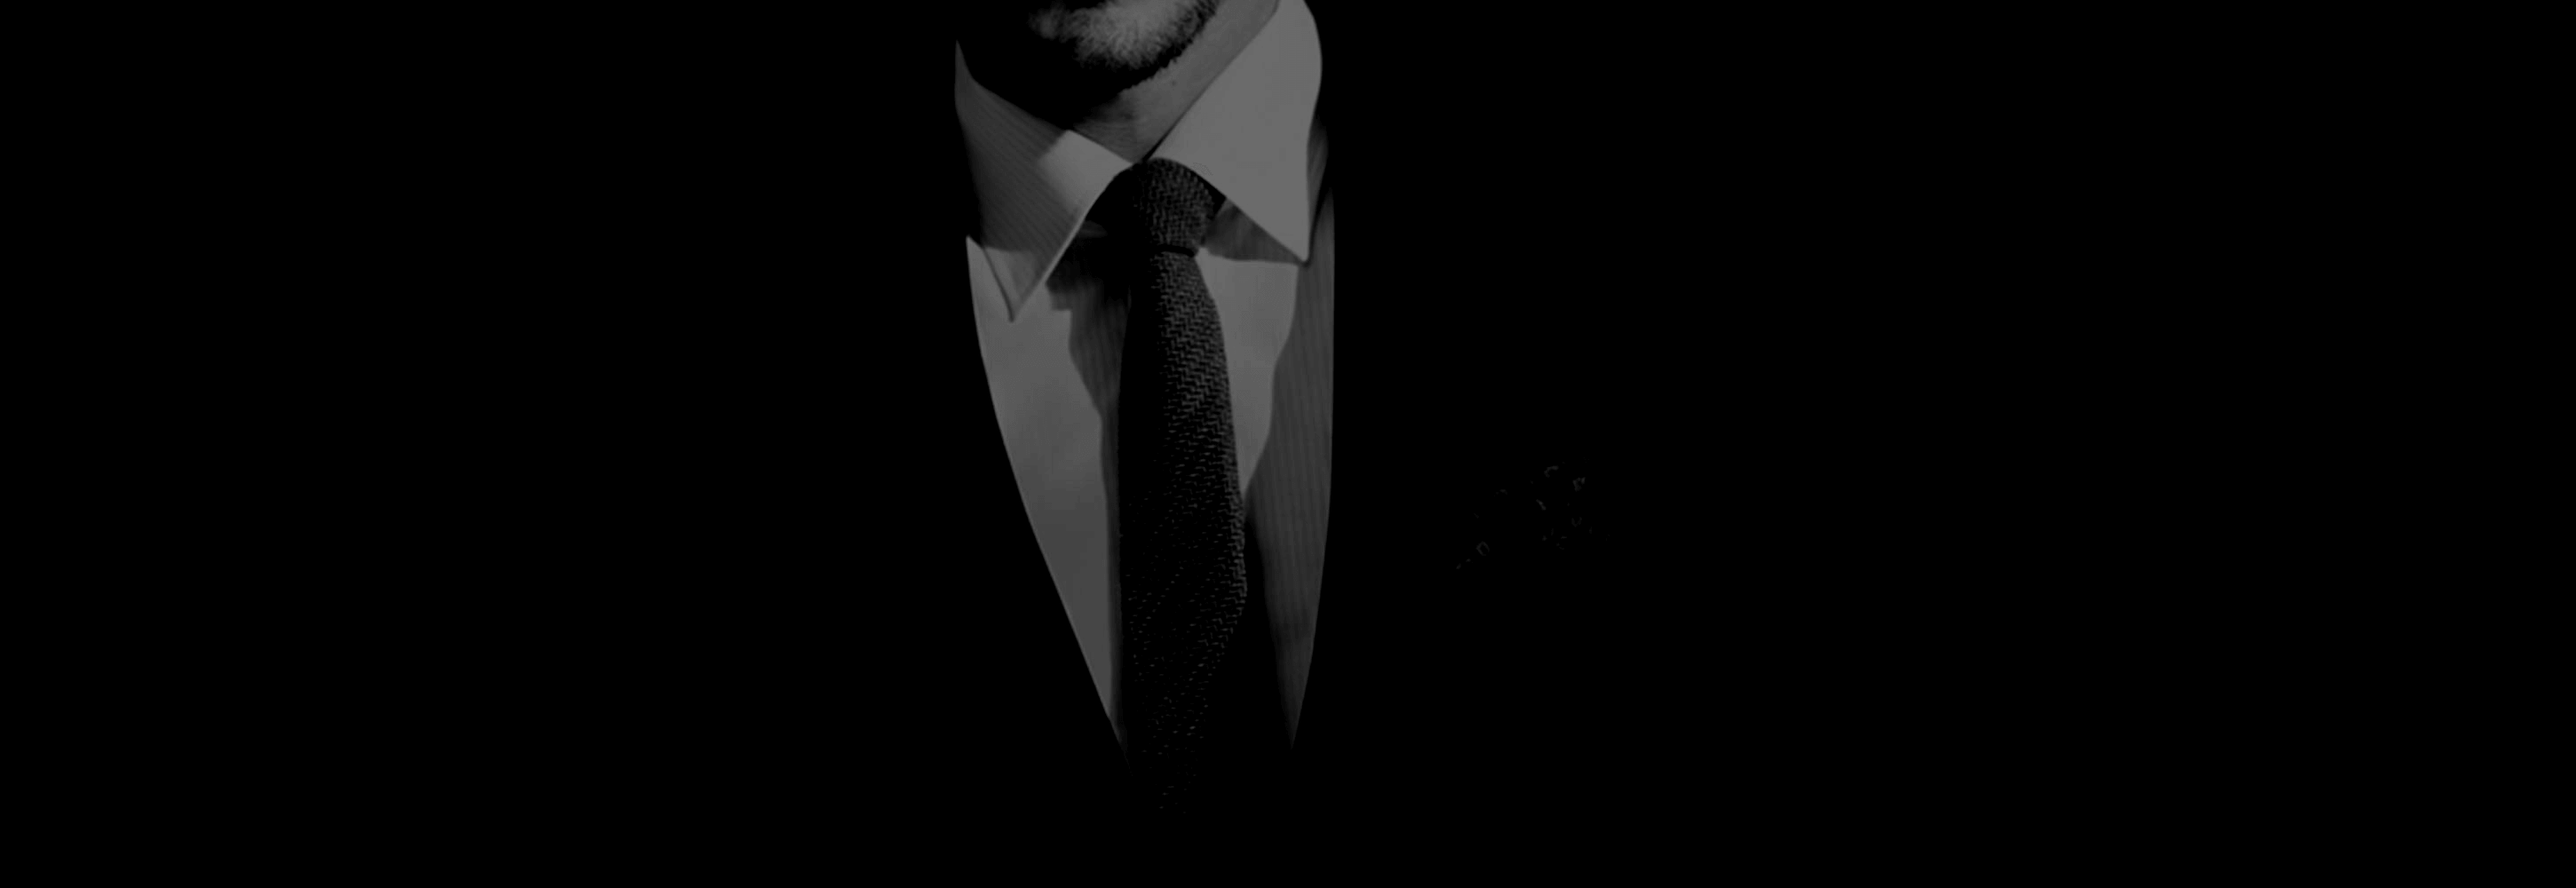
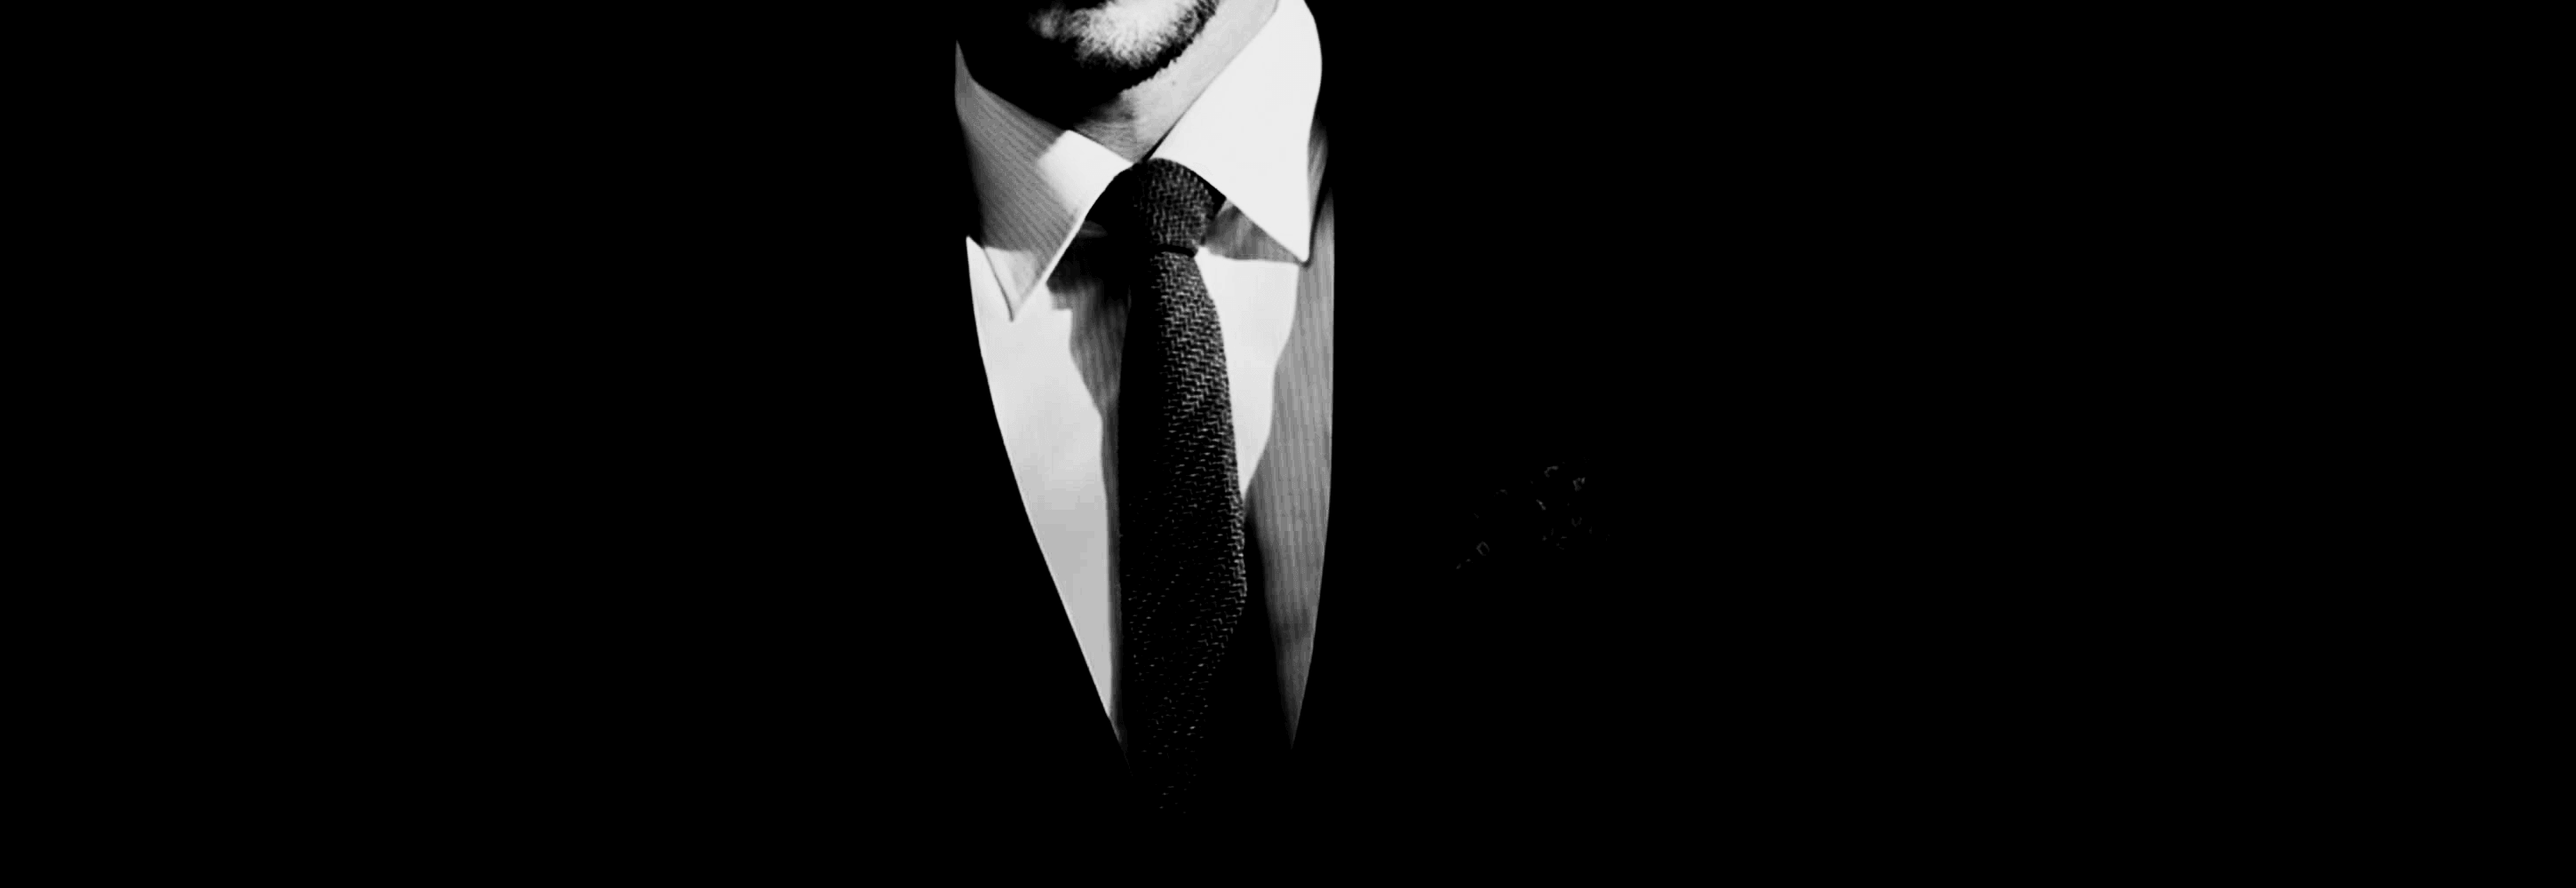
New block post (from the JavaZone talk) + fixed header images

Changed region(s): [[0.3724, 0.0, 0.5276, 0.806]]

diff --git a/_layouts/page.html b/_layouts/page.html
@@ -3,7 +3,7 @@ layout: default
 ---
 
 <!-- Page Header -->
-<header class="intro-header" style="background-image: url('{{ site.baseurl }}/{% if page.header-img %}{{ page.header-img }}{% else %}{{ site.header-img }}{% endif %}')">
+<header class="intro-header" style="background-image: linear-gradient(rgba(0, 0, 0, 0.7), rgba(0, 0, 0, 0.7)), url('{{ site.baseurl }}/{% if page.header-img %}{{ page.header-img }}{% else %}{{ site.header-img }}{% endif %}')">
     <div class="container">
         <div class="row">
             <div class="col-lg-8 col-lg-offset-2 col-md-10 col-md-offset-1">

diff --git a/_layouts/post.html b/_layouts/post.html
@@ -3,7 +3,7 @@ layout: default
 ---
 
 <!-- Post Header -->
-<header class="intro-header" style="background-image: url('{{ site.baseurl }}/{% if page.header-img %}{{ page.header-img }}{% else %}{{ site.header-img }}{% endif %}')">
+<header class="intro-header" style="background-image: linear-gradient(rgba(0, 0, 0, 0.7), rgba(0, 0, 0, 0.7)), url('{{ site.baseurl }}/{% if page.header-img %}{{ page.header-img }}{% else %}{{ site.header-img }}{% endif %}')">
     <div class="container">
         <div class="row">
             <div class="col-lg-8 col-lg-offset-2 col-md-10 col-md-offset-1">

diff --git a/_layouts/search.html b/_layouts/search.html
@@ -3,7 +3,7 @@ layout: default
 ---
 
 <!-- Page Header -->
-<header class="intro-header" style="background-image: url('{{ site.baseurl }}/{% if page.header-img %}{{ page.header-img }}{% else %}{{ site.header-img }}{% endif %}')">
+<header class="intro-header" style="background-image: linear-gradient(rgba(0, 0, 0, 0.7), rgba(0, 0, 0, 0.7)), url('{{ site.baseurl }}/{% if page.header-img %}{{ page.header-img }}{% else %}{{ site.header-img }}{% endif %}')">
     <div class="container">
         <div class="row">
             <div class="col-lg-8 col-lg-offset-2 col-md-10 col-md-offset-1">

diff --git a/_posts/2017-09-17-blockchain-what-is-it-good-for.md b/_posts/2017-09-17-blockchain-what-is-it-good-for.md
@@ -1,0 +1,30 @@
+---
+title: 'Blockchain - What is it good for?'
+date: 2017-09-17T12:00:00+02:00
+author: Gjermund Bjaanes
+layout: post
+permalink: /blockchain-what-is-it-good-for/
+categories:
+  - Uncategorized
+header-img: "img/blockchain_gen_bg.jpg"
+image: "img/blockchain_gen_bg.jpg"
+---
+
+I recently held a 20 minute talk at a developer conference here in Norway. The conference was JavaZone, and the talk was titled "Blockchain - what is it good for?"
+
+<!--more-->
+
+The content of the talk is taken in part from my earlier posts on blockchain:
+
+[Part 1: What is Blockchain]({{ site.baseurl }}/the-blockchain-innovation-part-1-what-is-blockchain/){:target="_blank"}  
+[Part 2: What can Blockchain solve?]({{ site.baseurl }}/the-blockchain-innovation-part-2-what-can-blockchain-solve/){:target="_blank"}  
+[Part 3: Exciting Blockchain Projects]({{ site.baseurl }}/the-blockchain-innovation-part-3-exciting-blockchain-projects/){:target="_blank"}
+
+In particular the "What can Blockchain solve" post.
+
+But it is not all old stuff. I have included new use cases and done more research on the existing ones. Different format, different content.
+
+Anyway, I hope you enjoy it:
+
+<iframe src="https://player.vimeo.com/video/233648689" width="640" height="360" frameborder="0" webkitallowfullscreen mozallowfullscreen allowfullscreen></iframe>
+<p><a href="https://vimeo.com/233648689">Blockchain, what is it good for?: Gjermund Bjaanes</a> from <a href="https://vimeo.com/javazone">JavaZone</a> on <a href="https://vimeo.com">Vimeo</a>.</p>

diff --git a/_posts/2017-04-27-the-blockchain-innovation-part-3-exciting-blockchain-projects.md b/_posts/2017-04-27-the-blockchain-innovation-part-3-exciting-blockchain-projects.md
@@ -8,8 +8,8 @@ categories:
   - Uncategorized
 redirect_from:  
   - /exciting-blockchain-projects/
-header-img: "img/blockchain_app_bg.jpg"
-image: "img/blockchain_app_bg.jpg"
+header-img: "img/blockchain_app_bg.png"
+image: "img/blockchain_app_bg.png"
 ---
 
 Blockchain technology seems to be everywhere, but what are some of the coolest, most innovative and exciting projects happening in this space right now?

diff --git a/portfolio.md b/portfolio.md
@@ -2,7 +2,7 @@
 title: Portfolio
 author: Gjermund Bjaanes
 layout: page
-header-img: "img/portfolio_bg.jpg"
+header-img: "img/portfolio_bg.png"
 ---
 
 On this page, I wanted to just showcase a few of the projects I do **on my own time**.
